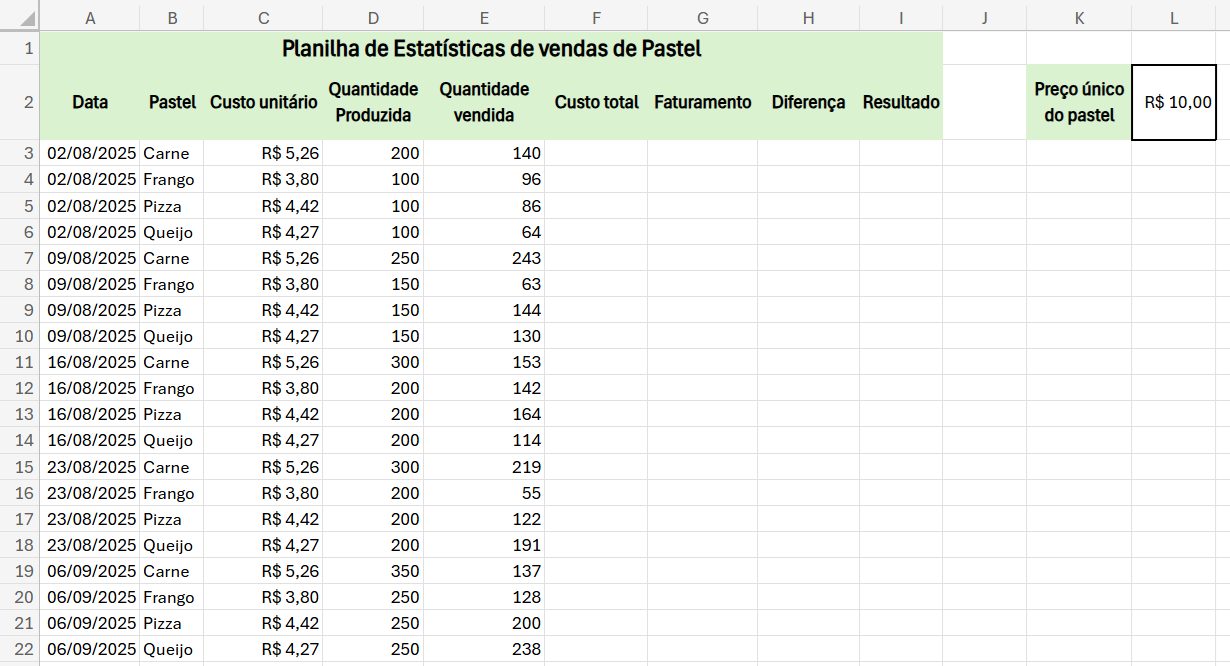
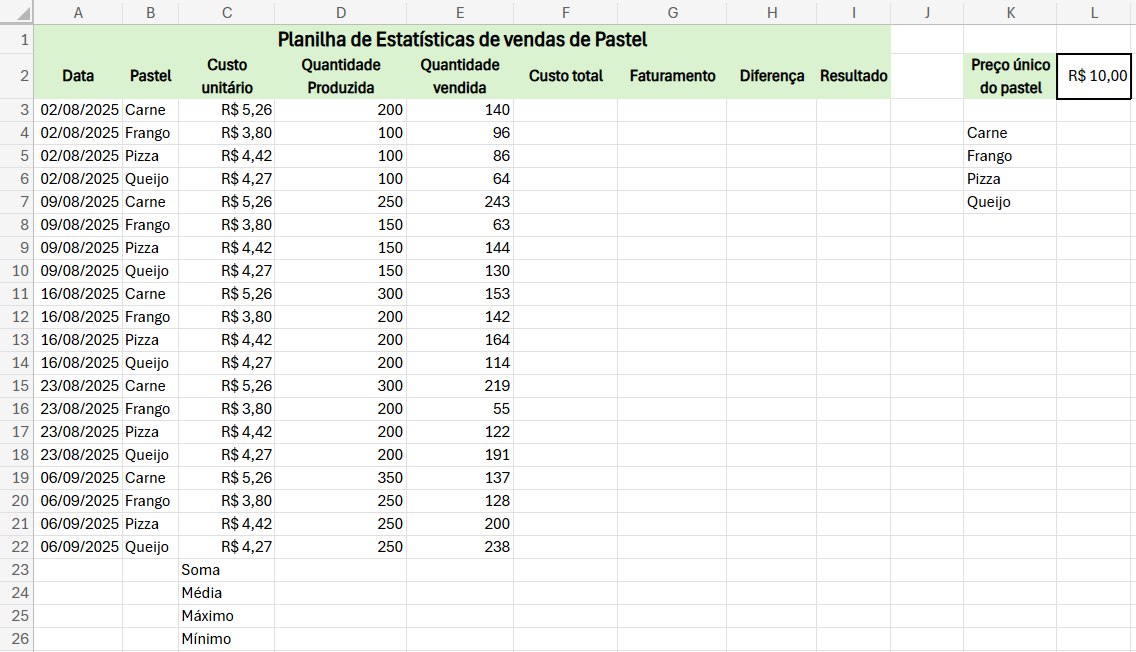
aula04

diff --git a/office/excel/aula04/README.md b/office/excel/aula04/README.md
@@ -6,3 +6,5 @@ Continuando no tema da barraca de pastel, nesta aula vamos aprender a calcular a
  - Calcule o **Faturamento**.
  - Calcule a **Diferença** entre o faturamento e o custo total.
  - Utilize a função **SE()** para verificar se houve lucro ou prejuízo.
+ - Por fim calcule a (Soma, Média, Máximo e Mínimo) das Quantidades, Custos, Faturamentos e Diferenças.
+ - Utilize a função **SOMASE()** para calcular o total vendido de cada sabor de pastel.
